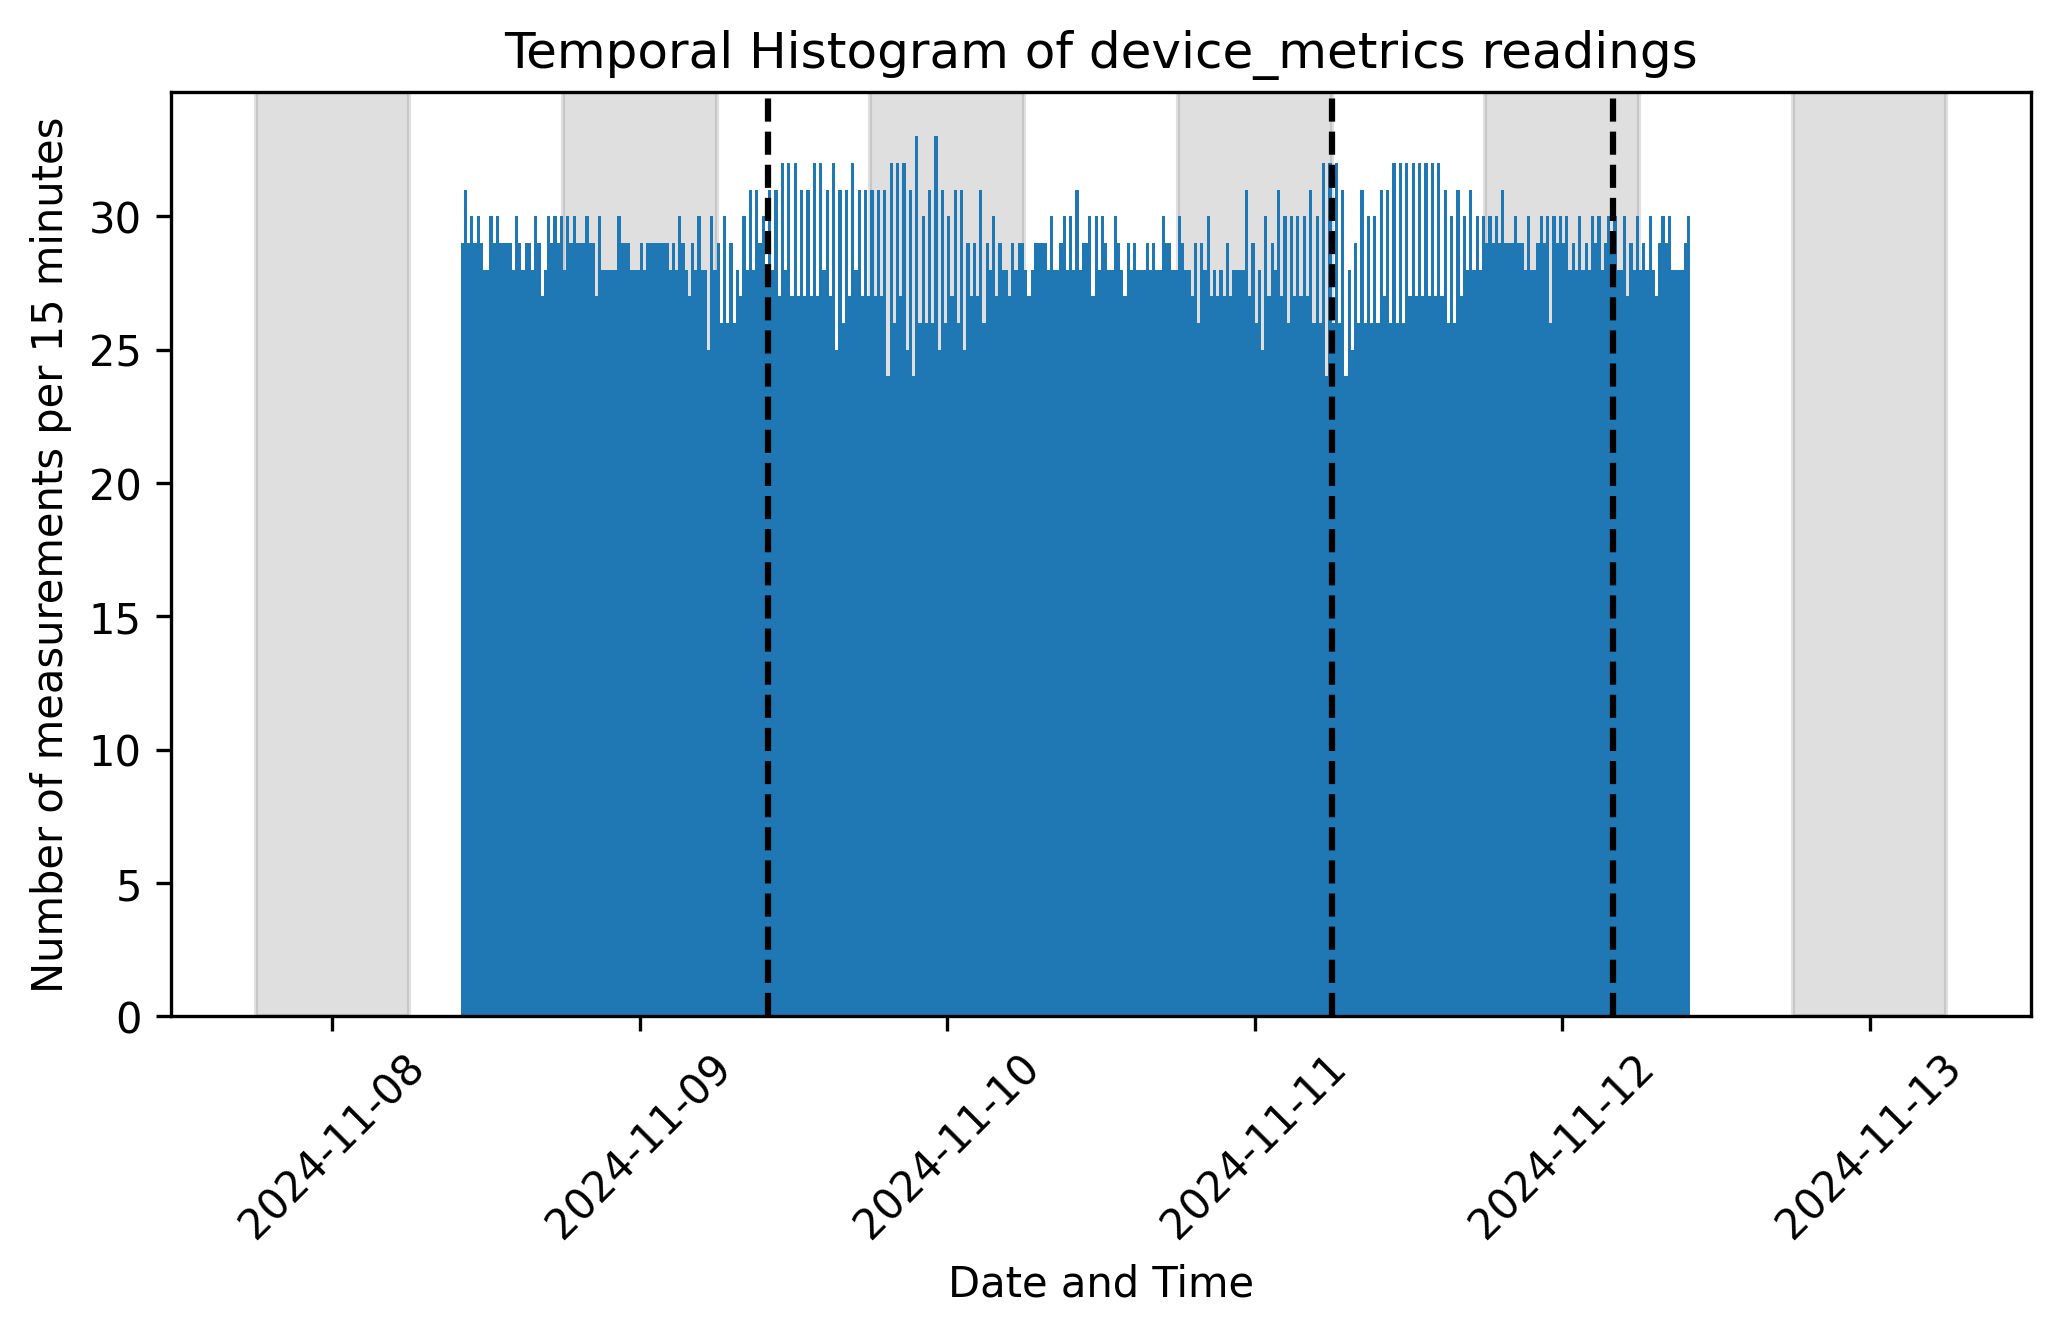
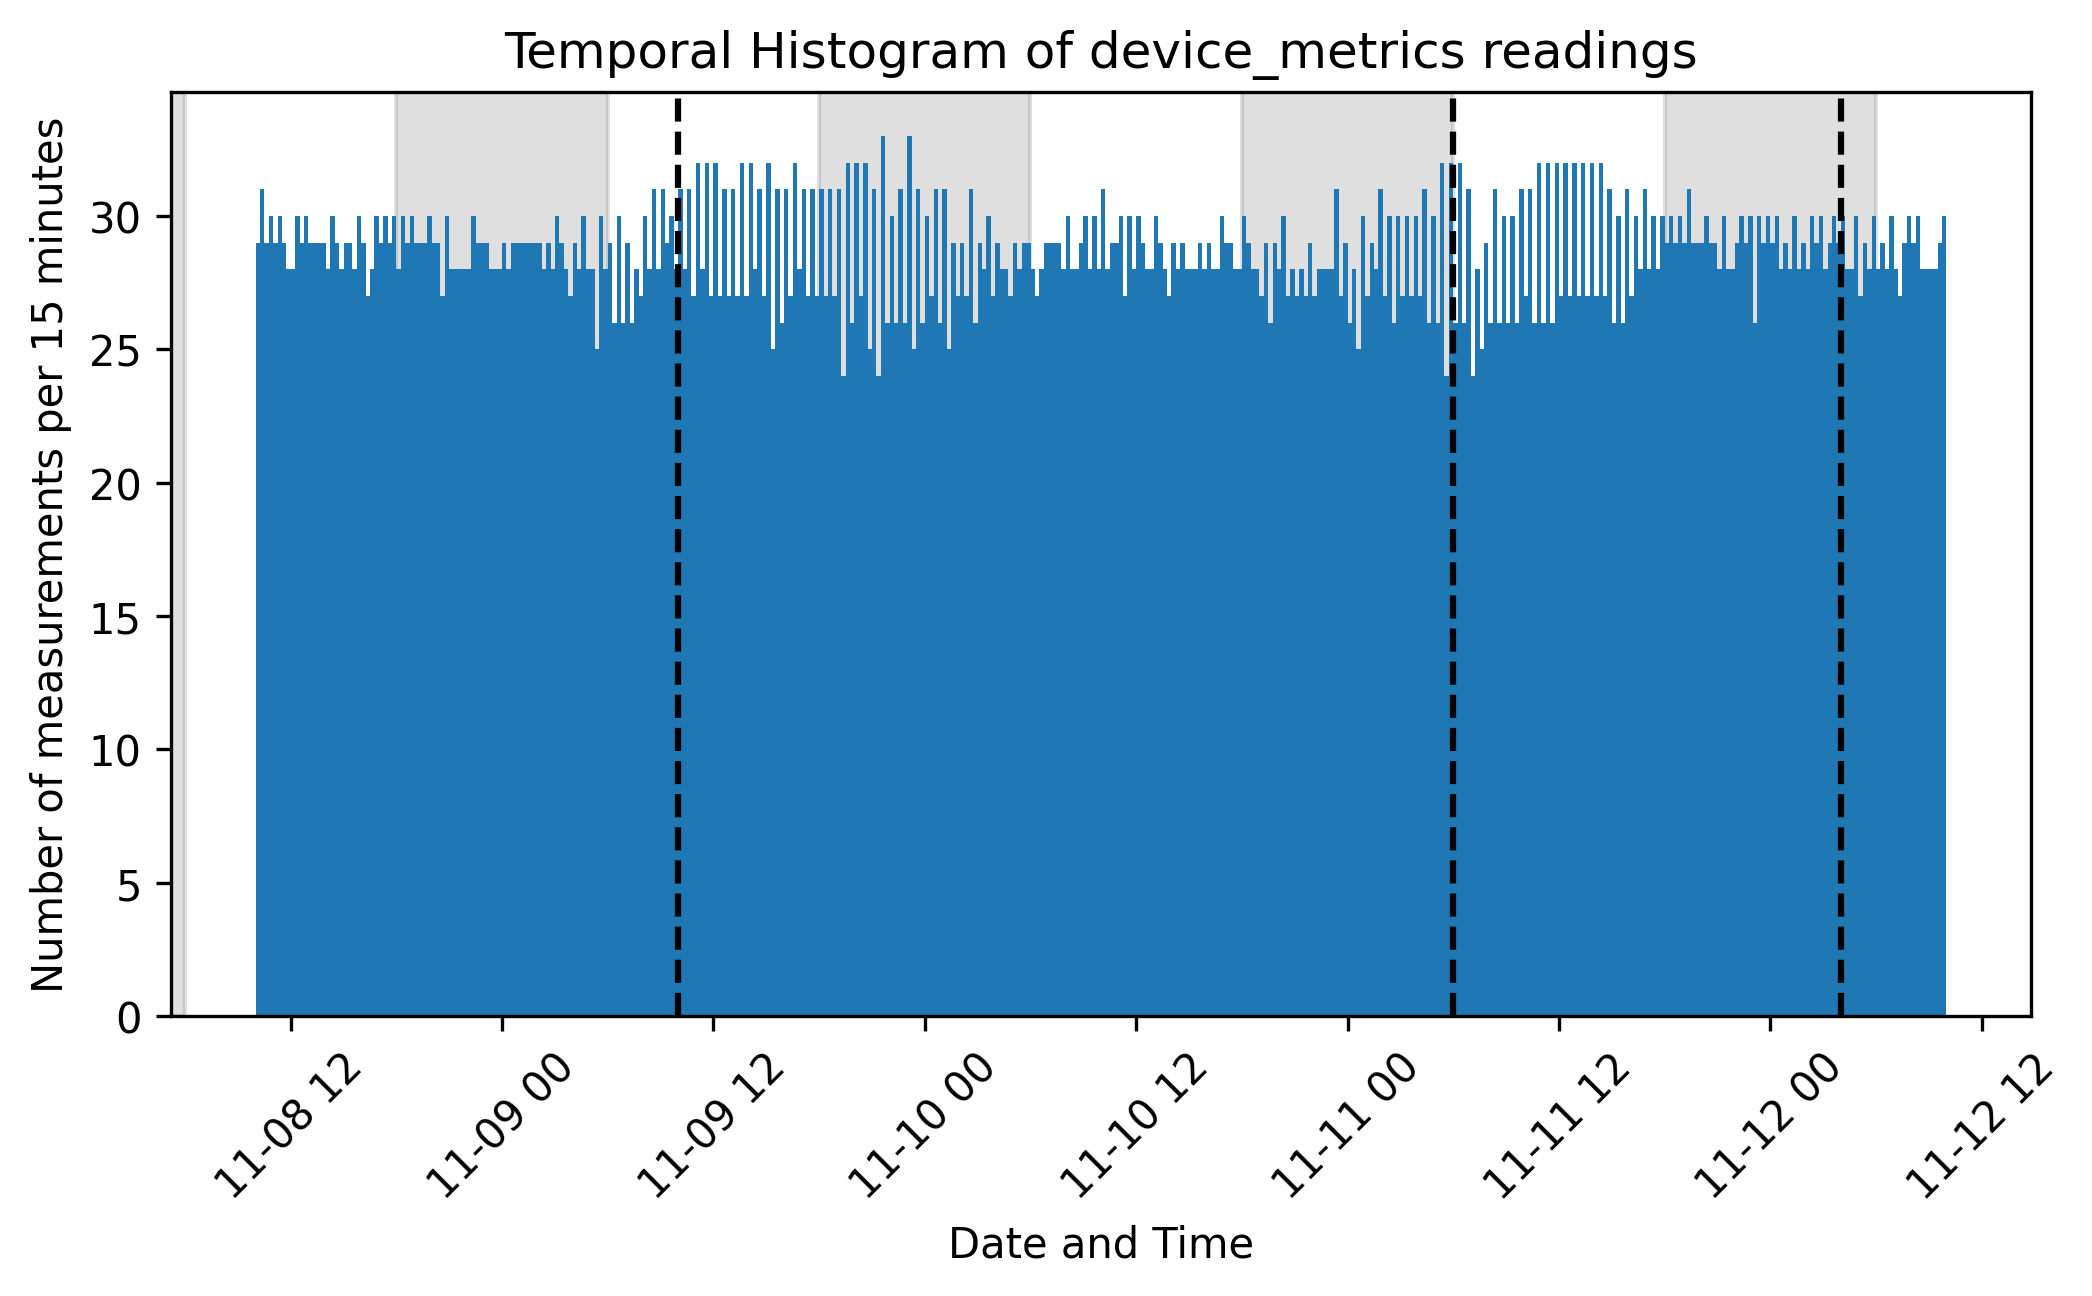
Plots now cropped correctly in time

diff --git a/src/smesh_plots.py b/src/smesh_plots.py
@@ -247,11 +247,14 @@ def plot_datetime_histogram(data_dict: dict, sensor: str,
     ax.set_xlabel('Date and Time')
     ax.set_ylabel(f"Number of measurements per 15 minutes")
     plt.title(f'Temporal Histogram of {sensor} readings')
+    
+    minx, maxx = plt.xlim()
 
     if event_datetimes is not None:
         add_event_lines(ax, curr_data_df, event_datetimes)
 
     highlight_nighttime(ax, curr_data_df)
+    plt.xlim([minx, maxx])
     
     return fig, ax
 
@@ -302,6 +305,8 @@ def plot_sensor_interval(data_dict: dict, sensor: str,
     plt.title(f'Time Interval between {sensor} readings')
 
     # plt.axhline(y=0, color='k', linestyle='--', label='0 sec gap')
+    
+    minx, maxx = plt.xlim()
 
     if show_max:
         plt.axhline(y=max_time, color='r', linestyle='--', label=f'{max_time_str} hr gap')
@@ -311,6 +316,8 @@ def plot_sensor_interval(data_dict: dict, sensor: str,
 
     highlight_nighttime(ax, curr_data_df)
     ax.legend(bbox_to_anchor=(1.01, 1), loc='upper left', markerscale=3)
+
+    plt.xlim([minx, maxx])
 
     return fig, ax
 
